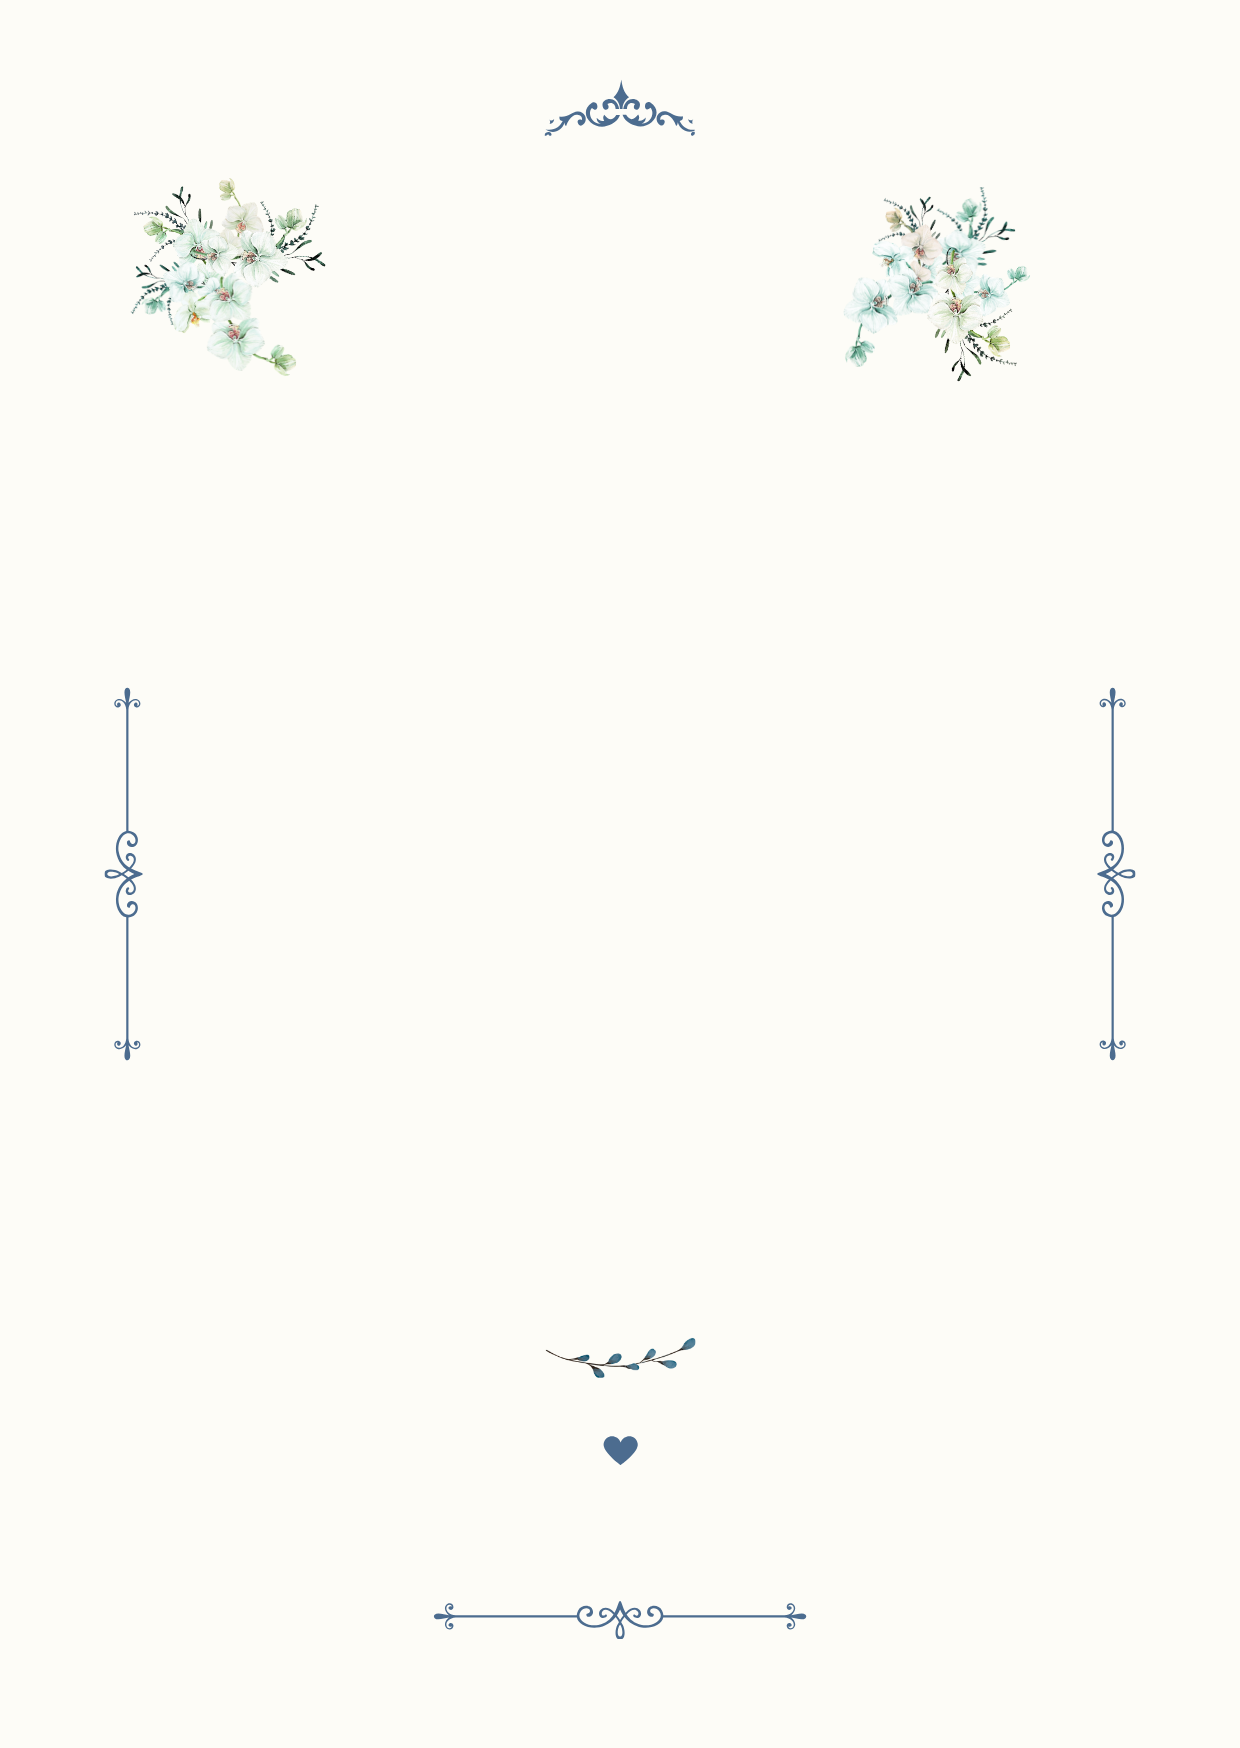
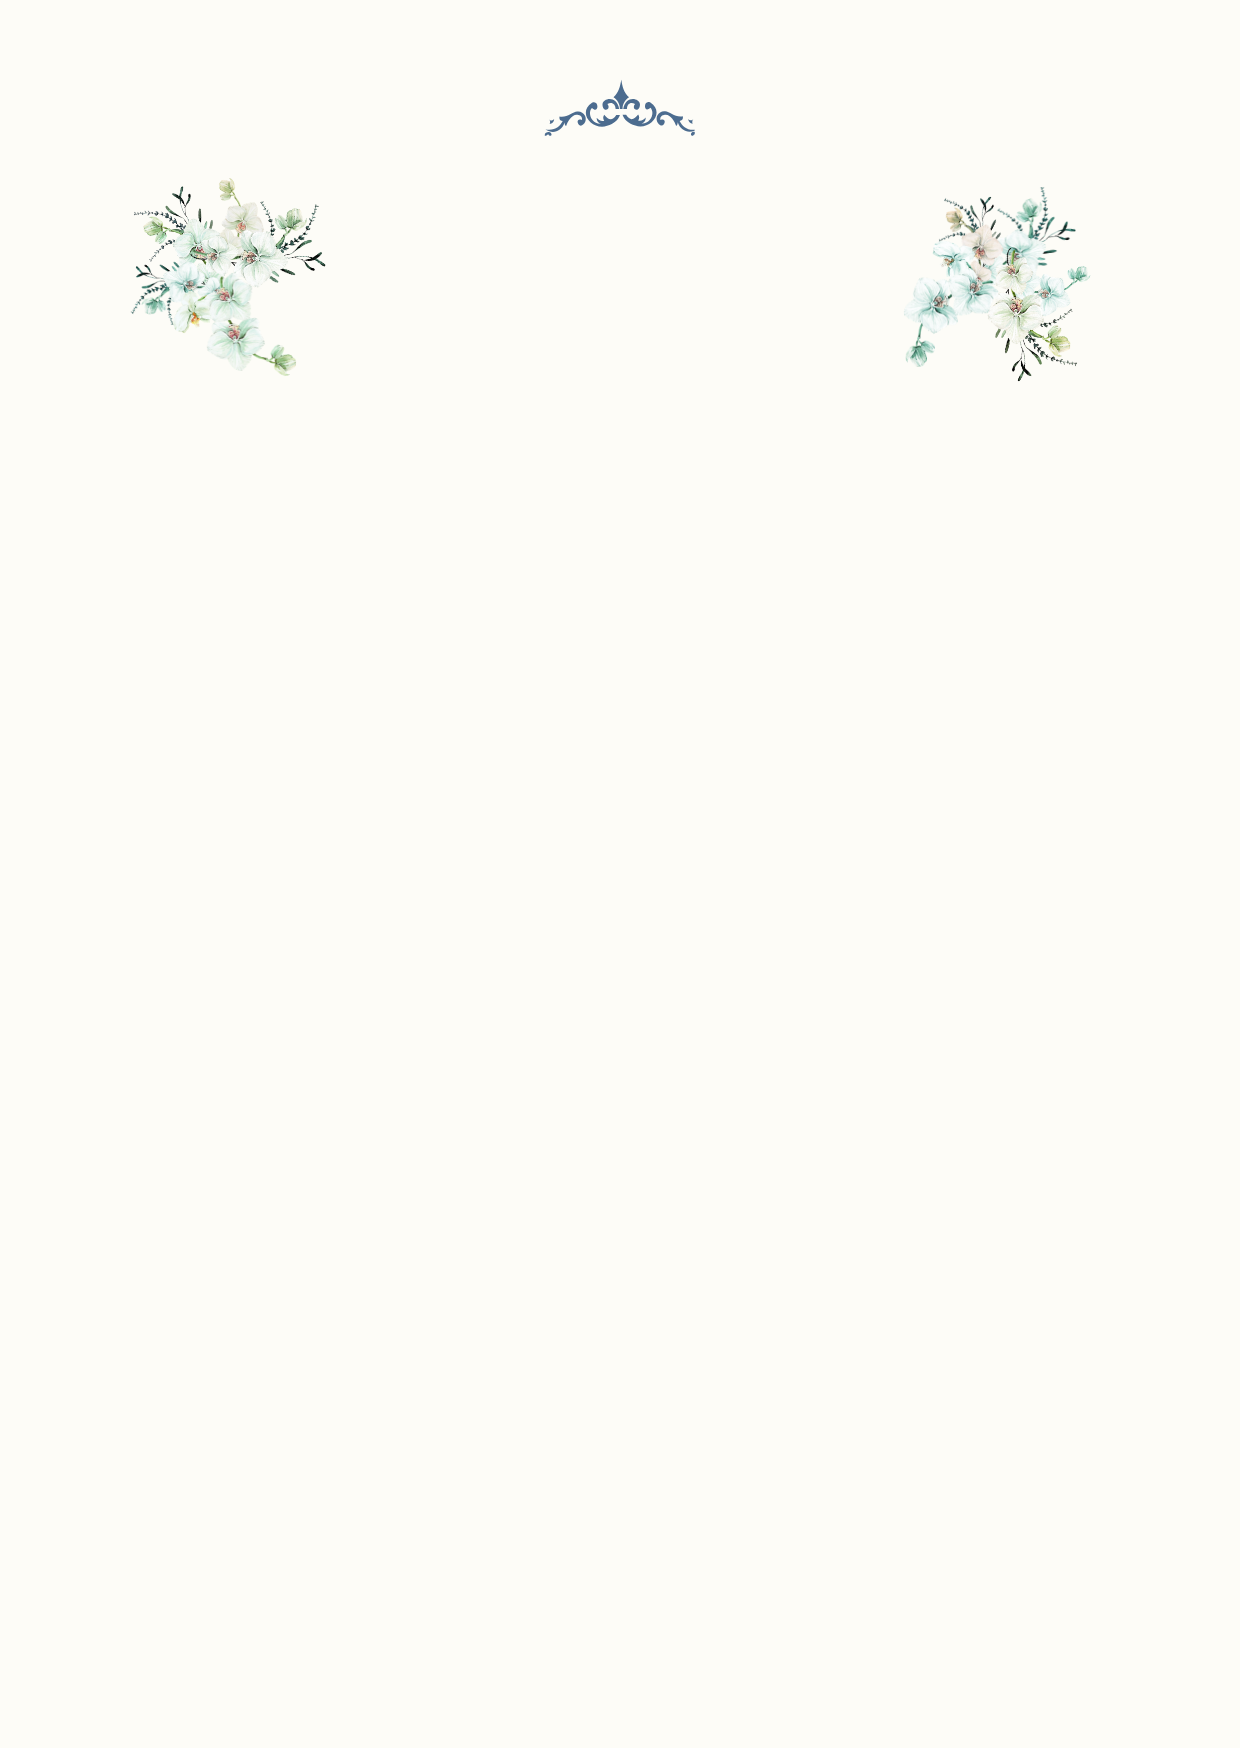
다이어리 커버 리디자인 마무리 - 배경/폰트/CTA 스타일 다듬기 + 렌더링 흐름 전면 개편
- 배경 이미지를 장식 무늬 제거된 심플 버전으로 교체
- 타이틀 폰트를 Pretendard로 변경, 크기 2% 축소
- CTA 버튼("저장하고 계속하기")에 semibold + 배경/패딩 추가해 버튼 형태감 부여
- 커버를 모달/오버레이에서 배타적 풀스크린 화면으로 전환: 앱 실행마다(당일
  방문 여부 무관) 항상 먼저 노출, 자동 페이드 애니메이션 제거, 하트 버튼을
  눌러야만 홈으로 전환 (온보딩 미완료 유저는 기존대로 온보딩이 먼저 나옴)
- 이름 텍스트 옆에 연필 아이콘 추가, 탭하면 기존 이름이 채워진 인풋으로
  전환되어 재수정 가능 (기존 setName/saveName 로직 재사용, 새 필드 없음)

diff --git a/components/daily-cover.tsx b/components/daily-cover.tsx
@@ -1,7 +1,7 @@
 "use client"
 
-import { useState, useEffect, useRef } from "react"
-import { Heart } from "lucide-react"
+import { useState } from "react"
+import { Heart, Pencil } from "lucide-react"
 import { t } from "@/lib/i18n"
 import type { Locale } from "@/lib/i18n"
 
@@ -14,53 +14,8 @@ interface DailyCoverProps {
 }
 
 export function DailyCover({ locale, name, onSaveName, onClose }: DailyCoverProps) {
-  const [isOpen, setIsOpen] = useState(false)
-  const [mode, setMode] = useState<"full" | "quick">("full")
-  const [visible, setVisible] = useState(false)
-  const [nameInput, setNameInput] = useState("")
-  const hasCheckedRef = useRef(false)
-
-  // 하루 중 첫 진입인지 판별 — 첫 진입이면 풀버전, 이후 재진입이면 퀵 버전(자동 소멸)
-  // hasCheckedRef로 감싸는 이유: 이 판별 로직 자체가 localStorage에 쓰는 부수효과라
-  // React StrictMode의 effect 이중 실행(dev 전용) 시 두 번째 실행이 첫 번째가 방금 쓴
-  // 값을 읽어버려 첫 진입인데도 quick으로 오판하는 문제가 있었다.
-  useEffect(() => {
-    if (hasCheckedRef.current) return
-    hasCheckedRef.current = true
-
-    const today = new Date().toISOString().split('T')[0]
-    const lastShownDate = localStorage.getItem('hoppy-last-cover-shown-date')
-
-    if (lastShownDate !== today) {
-      setMode("full")
-      setIsOpen(true)
-      localStorage.setItem('hoppy-last-cover-shown-date', today)
-    } else {
-      setMode("quick")
-      setIsOpen(true)
-    }
-  }, [])
-
-  // 퀵 모드 페이드 인/아웃 + 자동 닫힘 타이밍
-  useEffect(() => {
-    if (!isOpen) return
-    const raf = requestAnimationFrame(() => setVisible(true))
-
-    if (mode === "quick") {
-      const fadeOutTimer = setTimeout(() => setVisible(false), 1150)
-      const unmountTimer = setTimeout(() => {
-        setIsOpen(false)
-        onClose()
-      }, 1500)
-      return () => {
-        cancelAnimationFrame(raf)
-        clearTimeout(fadeOutTimer)
-        clearTimeout(unmountTimer)
-      }
-    }
-
-    return () => cancelAnimationFrame(raf)
-  }, [isOpen, mode, onClose])
+  const [isEditingName, setIsEditingName] = useState(name === null)
+  const [nameInput, setNameInput] = useState(name ?? "")
 
   const quote = t("onboarding.startToday.subtitle", locale)
 
@@ -68,44 +23,19 @@ export function DailyCover({ locale, name, onSaveName, onClose }: DailyCoverProp
     ? `${name}${t("dailyCover.recordSuffix", locale)}`
     : `My Skin Journal`
 
-  if (!isOpen) return null
-
-  const handleClose = () => {
-    setIsOpen(false)
-    onClose()
-  }
-
   const handleSaveName = () => {
     const trimmed = nameInput.trim()
     onSaveName(trimmed.length > 0 ? trimmed : "")
+    setIsEditingName(false)
   }
 
-  // 퀵 버전: 같은 날 재진입 — 문구만 잠깐 페이드 인/아웃 후 자동으로 사라짐
-  if (mode === "quick") {
-    return (
-      <div
-        className={`fixed inset-0 z-50 bg-black/30 flex items-center justify-center p-4 transition-opacity duration-300 ${
-          visible ? "opacity-100" : "opacity-0"
-        }`}
-        onClick={handleClose}
-      >
-        <div className="flex flex-col items-center gap-8 text-center px-6">
-          <img
-            src="/onboarding/cover-cat-sleeping.png"
-            alt=""
-            className="h-64 w-64 object-contain"
-          />
-          <p className="text-3xl font-serif font-medium text-white drop-shadow">
-            {quote}
-          </p>
-        </div>
-      </div>
-    )
+  const handleEditName = () => {
+    setNameInput(name ?? "")
+    setIsEditingName(true)
   }
 
-  // 풀 버전: 하루 첫 진입
   return (
-    <div className="fixed inset-0 z-50 bg-black/50 flex items-center justify-center p-4">
+    <div className="min-h-dvh w-full flex items-center justify-center p-4 bg-background">
       <div
         className="w-full max-w-md aspect-[1240/1748] rounded-3xl overflow-hidden bg-cover bg-center flex flex-col justify-center items-center relative"
         style={{
@@ -122,43 +52,46 @@ export function DailyCover({ locale, name, onSaveName, onClose }: DailyCoverProp
           />
 
           <div className="space-y-3">
-            <h2 className="text-2xl font-serif font-medium text-foreground leading-snug">
+            <h2 className="text-[1.47rem] font-sans font-medium text-foreground leading-snug">
               {quote}
             </h2>
 
-            {name === null ? (
-              // 최초 진입: 밑줄형 인풋 + "저장하고 계속하기" 단일 액션 (저장과 동시에 닫힘)
+            {isEditingName ? (
+              // 이름 입력/수정: 밑줄형 인풋 + "저장하고 계속하기"
               <div className="flex flex-col items-center gap-3 pt-2">
                 <input
                   value={nameInput}
                   onChange={(e) => setNameInput(e.target.value)}
                   placeholder={t("dailyCover.namePlaceholder", locale)}
                   className="w-full max-w-[200px] bg-transparent border-0 border-b border-[#B8C9D9] text-center text-[15px] text-foreground placeholder:text-muted-foreground/50 focus:outline-none focus:border-[#5FA8D3] py-1.5 transition-colors"
+                  autoFocus
                 />
                 <button
                   onClick={handleSaveName}
-                  className="text-[13px] tracking-wide text-[#5FA8D3] hover:text-[#3d7fa8] transition-colors"
+                  className="text-[13px] font-semibold tracking-wide text-[#5FA8D3] bg-[#5FA8D3]/10 rounded-full px-4 py-1.5 hover:bg-[#5FA8D3]/20 transition-colors"
                 >
                   {t("dailyCover.nameSave", locale)}
                 </button>
               </div>
             ) : (
-              // 재방문: 텍스트만 표시, 닫기는 아래 원형 버튼으로
-              <p className="text-lg text-muted-foreground pt-1">
+              // 이름 표시: 탭하면 다시 인풋으로 전환해 수정 가능 (연필 아이콘도 같은 클릭 영역)
+              <button
+                onClick={handleEditName}
+                className="inline-flex items-center gap-1.5 text-lg text-muted-foreground pt-1 underline decoration-dotted underline-offset-4 hover:text-foreground transition-colors"
+              >
                 {displayLine}
-              </p>
+                <Pencil className="h-3.5 w-3.5 shrink-0" />
+              </button>
             )}
           </div>
 
-          {name !== null && (
-            <button
-              onClick={handleClose}
-              aria-label={t("common.today", locale)}
-              className="h-11 w-11 rounded-full border border-[#5FA8D3] flex items-center justify-center text-[#5FA8D3] hover:bg-[#5FA8D3]/10 transition-colors mt-2"
-            >
-              <Heart className="h-4 w-4" fill="currentColor" />
-            </button>
-          )}
+          <button
+            onClick={onClose}
+            aria-label={t("common.today", locale)}
+            className="h-11 w-11 rounded-full border border-[#5FA8D3] flex items-center justify-center text-[#5FA8D3] hover:bg-[#5FA8D3]/10 transition-colors mt-2"
+          >
+            <Heart className="h-4 w-4" fill="currentColor" />
+          </button>
         </div>
       </div>
     </div>

diff --git a/app/[locale]/page.tsx b/app/[locale]/page.tsx
@@ -28,7 +28,7 @@ function PageContent({ locale }: { locale: 'ko' | 'en' }) {
   const { currentDay, totalDays } = diary
 
   const [selectedDay, setSelectedDay] = useState<number | null>(null)
-  const [coverClosed, setCoverClosed] = useState(false)
+  const [coverConfirmed, setCoverConfirmed] = useState(false)
 
   if (!diary.hydrated) return null
 
@@ -39,6 +39,20 @@ function PageContent({ locale }: { locale: 'ko' | 'en' }) {
     return <OnboardingFlow locale={locale} diary={diary} onComplete={handleOnboardingComplete} />
   }
 
+  // 온보딩 완료 후, 앱을 켤 때마다(당일 첫 방문 여부와 무관하게) 매번 커버를 먼저 보여준다.
+  // 하트 버튼을 눌러야만 아래 홈 화면으로 넘어간다(자동 전환 없음).
+  if (!coverConfirmed) {
+    return (
+      <DailyCover
+        locale={locale}
+        name={diary.name}
+        joinDate={diary.joinDate}
+        onSaveName={diary.setName}
+        onClose={() => setCoverConfirmed(true)}
+      />
+    )
+  }
+
   const activeDay = selectedDay ?? currentDay
 
   const isCourseComplete = currentDay >= totalDays
@@ -46,15 +60,6 @@ function PageContent({ locale }: { locale: 'ko' | 'en' }) {
   return (
     <>
       <main className="mx-auto flex min-h-dvh w-full max-w-md flex-col gap-4 px-4 pb-10 pt-6">
-        {!coverClosed && (
-          <DailyCover
-            locale={locale}
-            name={diary.name}
-            joinDate={diary.joinDate}
-            onSaveName={diary.setName}
-            onClose={() => setCoverClosed(true)}
-          />
-        )}
         <InstallBanner />
 
         {/* <ProgressBar30 loggedDays={diary.loggedDays} /> */}
